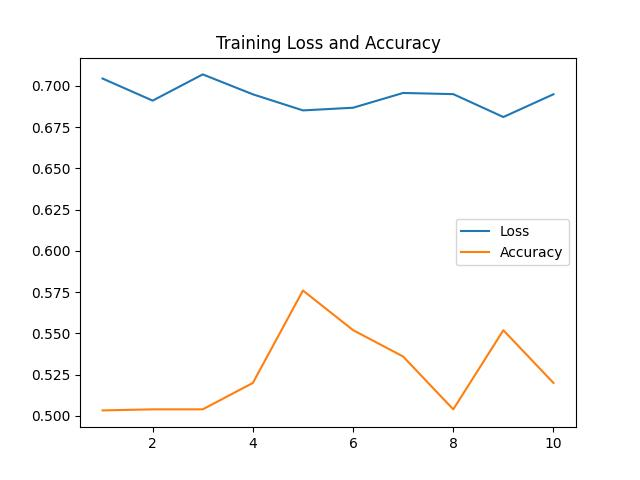
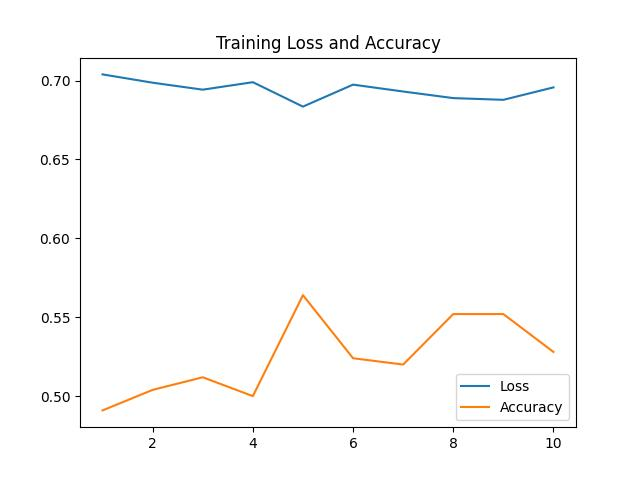
Removed unnecessary batch_size parameter from train

diff --git a/backend/ml/tests/test_train.py b/backend/ml/tests/test_train.py
@@ -21,9 +21,9 @@ def test_train():
     x_train = random.randint(random.PRNGKey(706), shape=(1000, 5), minval=0, 
                              maxval=50).astype(float)
     y_train = random.bernoulli(random.PRNGKey(9970), 0.35, shape=(1000,)).astype(float)
-    train_data = Dataset(x_train, y_train, 128, 127)
+    train_data = Dataset(x_train, y_train, 256, 127)
     train_params = init_deep_fm(51, 5, 5)
-    out = train(train_params, train_data, 10, 32)
+    out = train(train_params, train_data, 10)
     epochs, loss, accuracy, train_params = out
     assert len(out) == 4
     assert len(epochs) == 10

diff --git a/backend/ml/ml/train.py b/backend/ml/ml/train.py
@@ -25,7 +25,7 @@ def step(params, x, y):
     return params, loss, grads, accuracy
 
 
-def train(params, data, num_epochs, batch_size):
+def train(params, data, num_epochs):
     epochs, loss_list, acc_list = [], [], []
     solver = optax.adam(0.0001)
     solver_state = solver.init(params)
